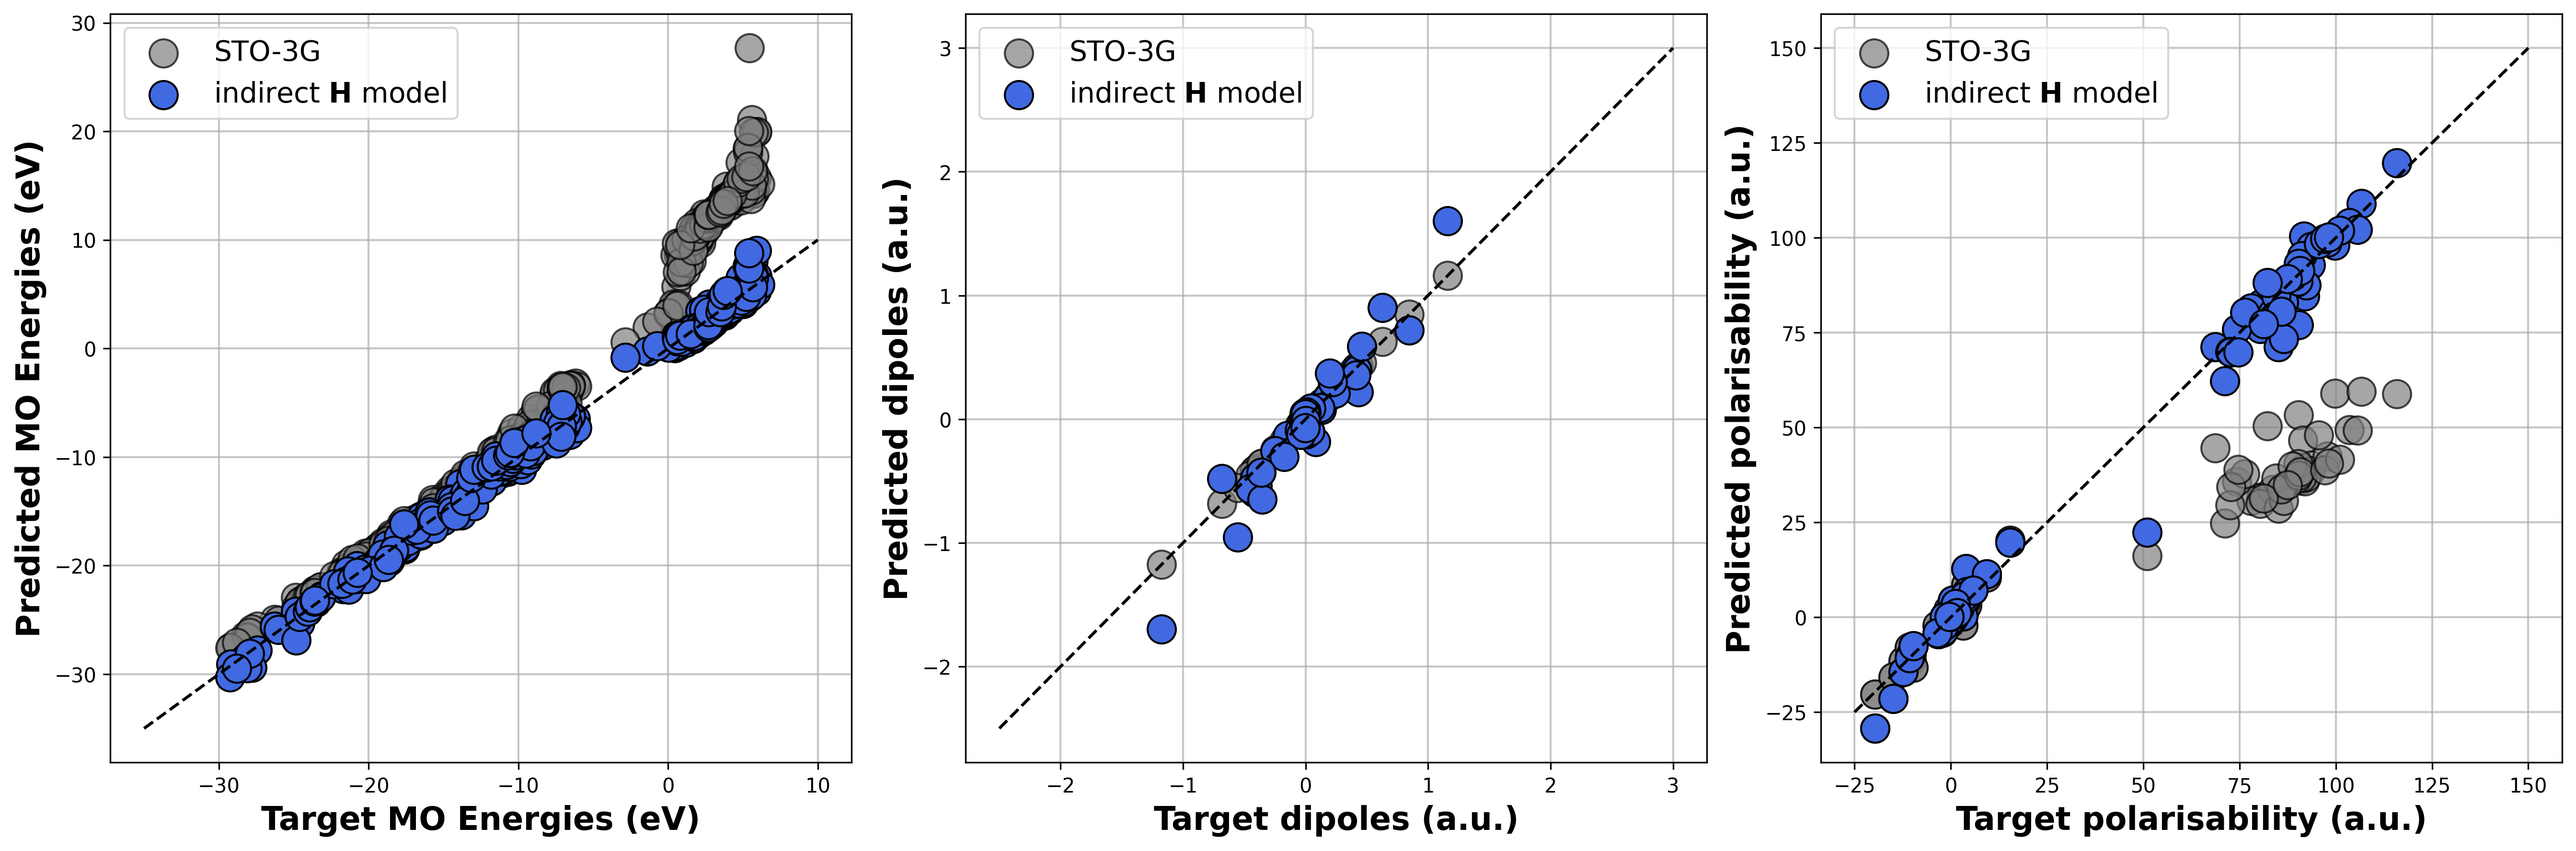
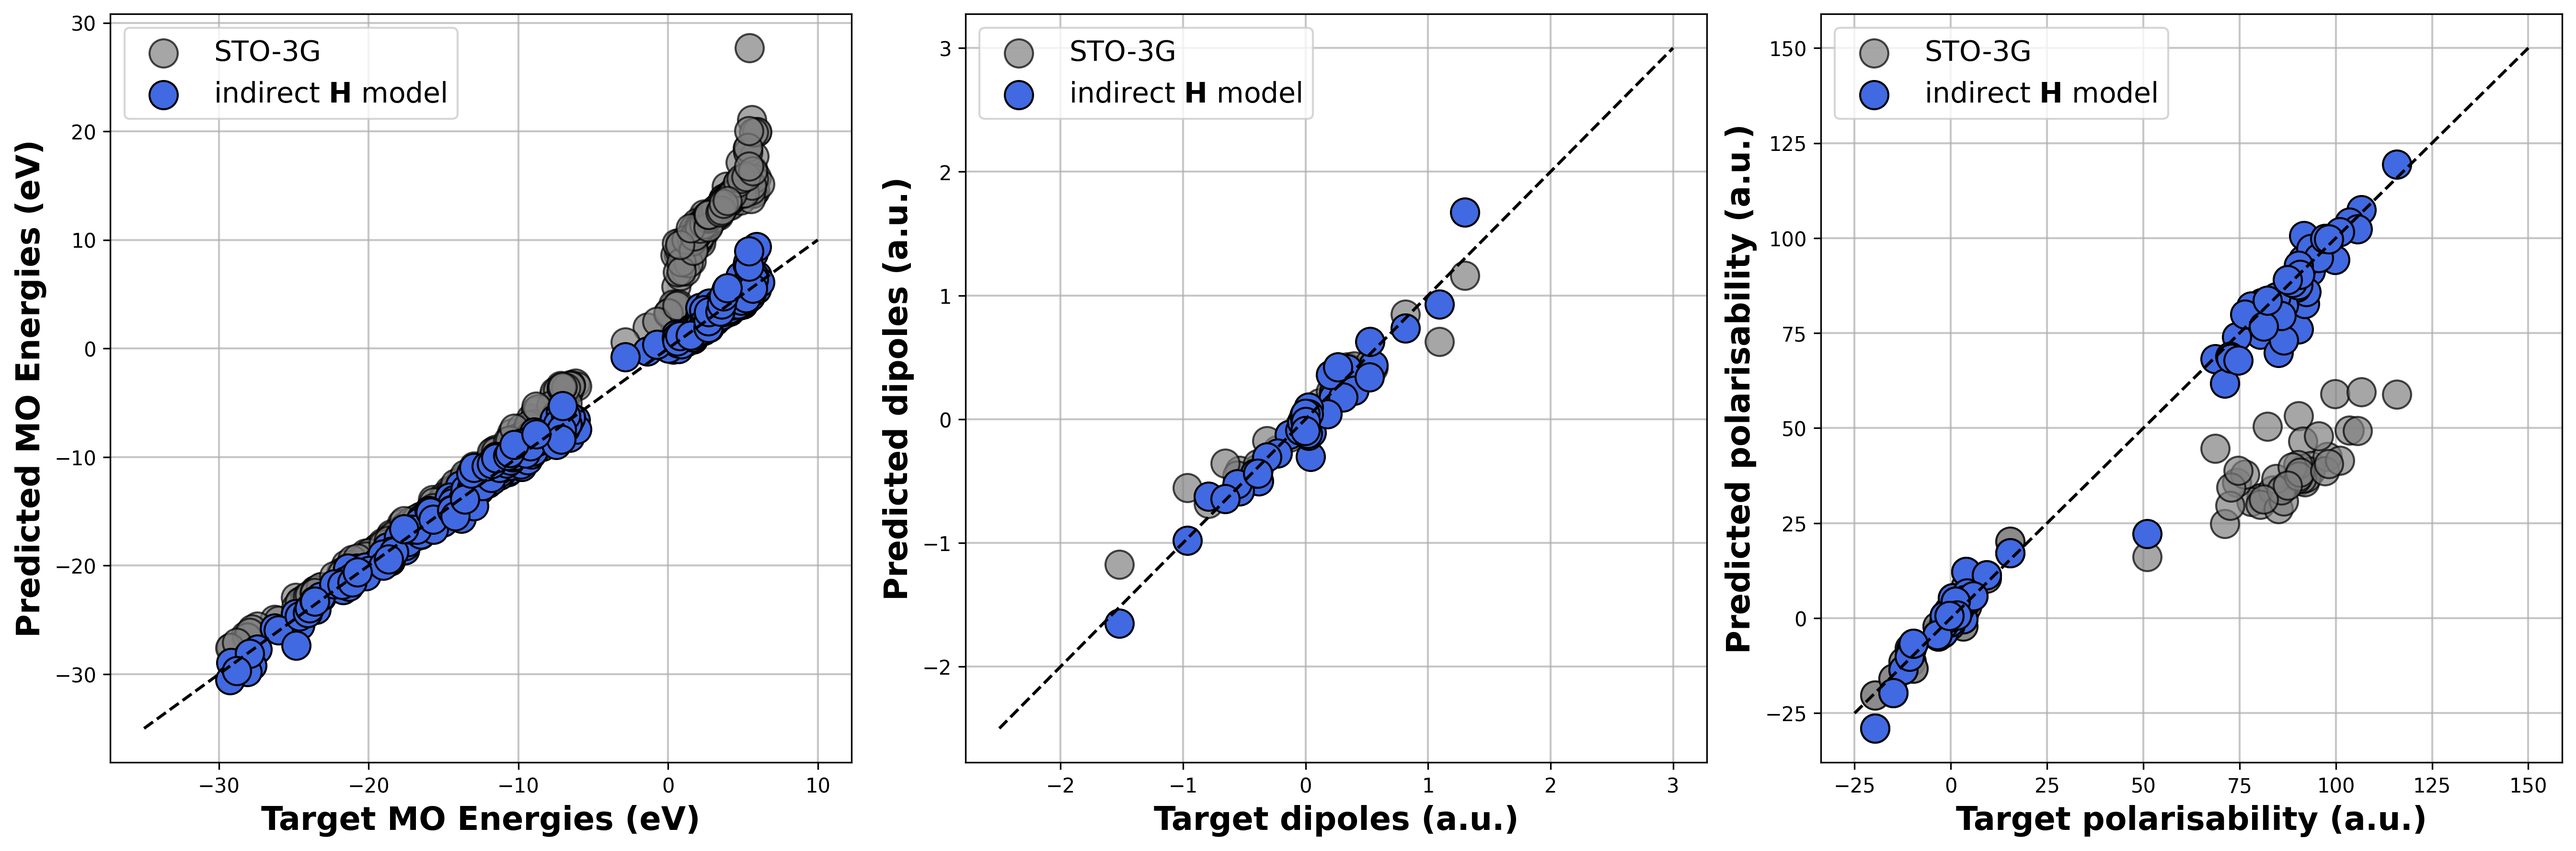
parity plot code

diff --git a/examples/hamiltonian-qm7/hamiltonian-qm7.py b/examples/hamiltonian-qm7/hamiltonian-qm7.py
@@ -453,103 +453,122 @@ plot_losses(history, save=True, savename=f"{FOLDER_NAME}/loss_vs_epoch.pdf")
 # ^^^^^^^^^^^
 # We then evaluate the prediction of the fine-tuned model on
 # the MO energies by comparing it the with the MO energies
-# from the reference def2-TZVP calculation. The parity plot
+# from the reference def2-TZVP calculation. 
+
+f_pred = model.forward(
+    ml_data.feat_test,
+    return_type="tensor",
+    batch_indices=ml_data.test_idx,
+)
+
+test_eva_pred = compute_eigvals(
+            ml_data, f_pred, range(len(ml_data.test_idx)), orthogonal=ORTHOGONAL
+        )
+
+# The parity plot
 # below shows the performance of our model on the test
 # dataset. ML predictions are shown with blue points and
 # the corresponding MO energies from the STO-3G basis are
 # are shown in grey.
 
 
-def plot_parity_property(molecule_data, propert="eva", orthogonal=True):
-    plt.figure()
-    plt.plot([-25, 20], [-25, 20], "k--")
-    plt.plot(
-        torch.cat(
-            [
-                molecule_data.lb_target[propert][i][
-                    : molecule_data.target[propert][i].shape[0]
-                ]
-                for i in ml_data.test_idx
-            ]
-        )
-        .detach()
-        .numpy()
-        .flatten()
-        * Hartree,
-        torch.cat([molecule_data.target[propert][i] for i in ml_data.test_idx])
-        .detach()
-        .numpy()
-        .flatten()
-        * Hartree,
-        "o",
-        alpha=0.7,
-        color="gray",
-        markeredgecolor="black",
-        markeredgewidth=0.2,
-        label="STO-3G",
-    )
-    f_pred = model.forward(
-        ml_data.feat_test,
-        return_type="tensor",
-        batch_indices=ml_data.test_idx,
-    )
+import matplotlib.pyplot as plt
+import torch
+import numpy as np
 
-    if propert == "eva":
-        prop = compute_eigvals(
-            ml_data, f_pred, range(len(ml_data.test_idx)), orthogonal=orthogonal
-        )
-        prop = torch.tensor([p for pro in prop for p in pro]).detach().numpy()
-        propertunit = "eV"
-    elif propert == "dip":
-        prop = compute_dipole_moment(
-            [molecule_data.structures[i] for i in ml_data.test_idx],
-            f_pred,
-            orthogonal=orthogonal,
-        )
-        prop = torch.tensor([p for pro in prop for p in pro]).detach().numpy()
-        propertunit = "a.u."
-    elif propert == "pol":
-        prop = compute_polarisability(
-            [molecule_data.structures[i] for i in ml_data.test_idx],
-            f_pred,
-            orthogonal=orthogonal,
-        )
-        prop = prop.flatten().detach().numpy()
-        propertunit = "a.u."
-    else:
-        print("Property not implemented")
+def plot_parity_properties(
+    molecule_data,
+    ml_data,
+    Hartree,
+    properties=["eva", "dip", "pol"],
+    predictions_dict=None  # dictionary with keys: "eva", "dip", "pol"
+):
+    # Labels, units, and axis ranges
+    prop_info_map = {
+        "eva": {"label": "MO Energies", "unit": "eV", "range": [-35, 30]},
+        "dip": {"label": "dipoles", "unit": "a.u.", "range": [-2.5, 3]},
+        "pol": {"label": "polarisability", "unit": "a.u.", "range": [-25, 150]},
+    }
 
-    plt.plot(
-        torch.cat(
-            [
-                molecule_data.lb_target[propert][i][
-                    : molecule_data.target[propert][i].shape[0]
-                ]
-                for i in ml_data.test_idx
-            ]
-        )
-        .detach()
-        .numpy()
-        .flatten()
-        * Hartree,
-        prop * Hartree,
-        "o",
-        alpha=0.7,
-        color="royalblue",
-        markeredgecolor="black",
-        markeredgewidth=0.2,
-        label="ML",
-    )
-    plt.ylim(-25, 20)
-    plt.xlim(-25, 20)
-    plt.xlabel(f"Reference {propert} ({propertunit})")
-    plt.ylabel(f"Predicted {propert} ({propertunit})")
-    plt.savefig(f"{FOLDER_NAME}/parity_{propert}.pdf")
-    plt.legend()
+    n = len(properties)
+    fig, axes = plt.subplots(1, n, figsize=(6 * n, 6))
+    if n == 1:
+        axes = [axes]  # Make iterable
+
+    for i, propert in enumerate(properties):
+        ax = axes[i]
+        label = prop_info_map[propert]["label"]
+        unit = prop_info_map[propert]["unit"]
+        min_val, max_val = prop_info_map[propert]["range"]
+
+        ax.set_axisbelow(True)
+        ax.grid(True, which='both', linestyle='-', linewidth=1, alpha=0.7)
+        ax.plot([min_val, max_val], [min_val, max_val], linestyle='--', color='black', linewidth=1.5)
+
+        # Reference vs low-basis
+        target_vals = []
+        lb_vals = []
+
+        for idx in ml_data.test_idx:
+            target = molecule_data.target[propert][idx]
+            lb = molecule_data.lb_target[propert][idx]
+            if propert == "eva":
+                lb = lb[:target.shape[0]]
+            target_vals.append(target)
+            lb_vals.append(lb)
+
+        target_tensor = torch.cat(target_vals)
+        lb_tensor = torch.cat(lb_vals)
+        x_vals = lb_tensor.detach().numpy().flatten()
+        y_vals = target_tensor.detach().numpy().flatten()
+
+        if propert == "eva":
+            x_vals *= Hartree
+            y_vals *= Hartree
+
+        ax.scatter(x_vals, y_vals, color='gray', alpha=0.7, s=200, marker='o',
+                   edgecolor='black', label="STO-3G")
+
+        # Use saved predictions
+        pred_array = predictions_dict[propert]
+        if propert == "eva":
+            pred_array = np.concatenate([p[:t.shape[0]] for p, t in zip(pred_array, target_vals)])
+            y_model = pred_array * Hartree
+            x_model = x_vals
+        elif propert == "dip":
+            y_model = pred_array
+            x_model = x_vals
+        elif propert == "pol":
+            y_model = pred_array
+            x_model = x_vals
+        else:
+            print(f"Unknown property: {propert}")
+            continue
+
+        ax.scatter(x_model, y_model, color='royalblue', alpha=0.7, s=200, marker='o',
+                   edgecolor='black', label="indirect $\mathbf{H}$ model")
+
+        ax.set_xlabel(f"Target {label} ({unit})", fontsize=16, fontweight='bold')
+        ax.set_ylabel(f"Predicted {label} ({unit})", fontsize=16, fontweight='bold')
+        ax.set_xlim(min_val, max_val)
+        ax.set_ylim(min_val, max_val)
+        ax.legend(fontsize=14)
+
+    plt.tight_layout()
+    # plt.savefig(f"{FOLDER_NAME}/parity_combined.png", bbox_inches="tight", dpi=300)
     plt.show()
 
 
-plot_parity_property(molecule_data, propert="eva", orthogonal=ORTHOGONAL)
+predictions_dict = {
+    "eva": [p.detach().numpy() for p in test_eva_pred],
+}
+plot_parity_properties(
+    molecule_data,
+    ml_data,
+    Hartree,
+    properties=["eva"],
+    predictions_dict=predictions_dict
+)
 
 # %%
 # We can observe from the parity plot that even with a
@@ -857,6 +876,27 @@ hypers_pair = {
 # .. code-block:: python
 #
 #       model.load_state_dict(torch.load("hamiltonian-qm7-data/qm7/output/qm7_eva_dip_pol/best_model.pt"))
+# 
+# We can then compute different properties from the trained model.
+#
+# .. code-block:: python
+#
+#       batch_indices = ml_data.test_idx
+#       test_fock_predictions = model.forward(
+#           ml_data.feat_test,
+#           return_type="tensor",
+#           batch_indices=ml_data.test_idx,
+#       )
+#       test_dip_pred, test_polar_pred, test_eva_pred = (
+#           compute_batch_polarisability(
+#                ml_data,
+#               test_fock_predictions,
+#               batch_indices=batch_indices,
+#               mfs=all_mfs,
+#               orthogonal=ORTHOGONAL,
+#           )
+#       )
+#
 
 # %%
 # Plot loss
@@ -871,8 +911,8 @@ hypers_pair = {
 #
 #     plot_losses(history, save=True, savename=f"{FOLDER_NAME}/loss_vs_epoch.pdf")
 #
-# For refe`rence, we provide the loss plot we obtained during training of the
-# previously trained model.
+# For reference, we provide the loss plot we obtained during training of the
+# saved model that we load above.
 #
 # .. figure:: loss_vs_epoch.png
 #    :alt: loss versus epoch curves for training and
@@ -895,8 +935,20 @@ hypers_pair = {
 #
 # .. code-block:: python
 #
-#     plot_parity_property(molecule_data, propert="eva", orthogonal=ORTHOGONAL)
-#
+#     predictions_dict = {
+#         "eva": [p.detach().numpy() for p in test_eva_pred],
+#         "dip": test_dip_pred.detach().numpy(),
+#         "pol": test_polar_pred.detach().numpy(),
+#     }
+# 
+#     plot_parity_properties(
+#         molecule_data,
+#         ml_data,
+#         Hartree,
+#         properties=["eva", "dip", "pol"],
+#         predictions_dict=predictions_dict
+#     )
+# 
 # This command generates a parity plot for the desired properties.
 # As we did not compute
 # the features of the QM7 dataset for time and memory reasons,
